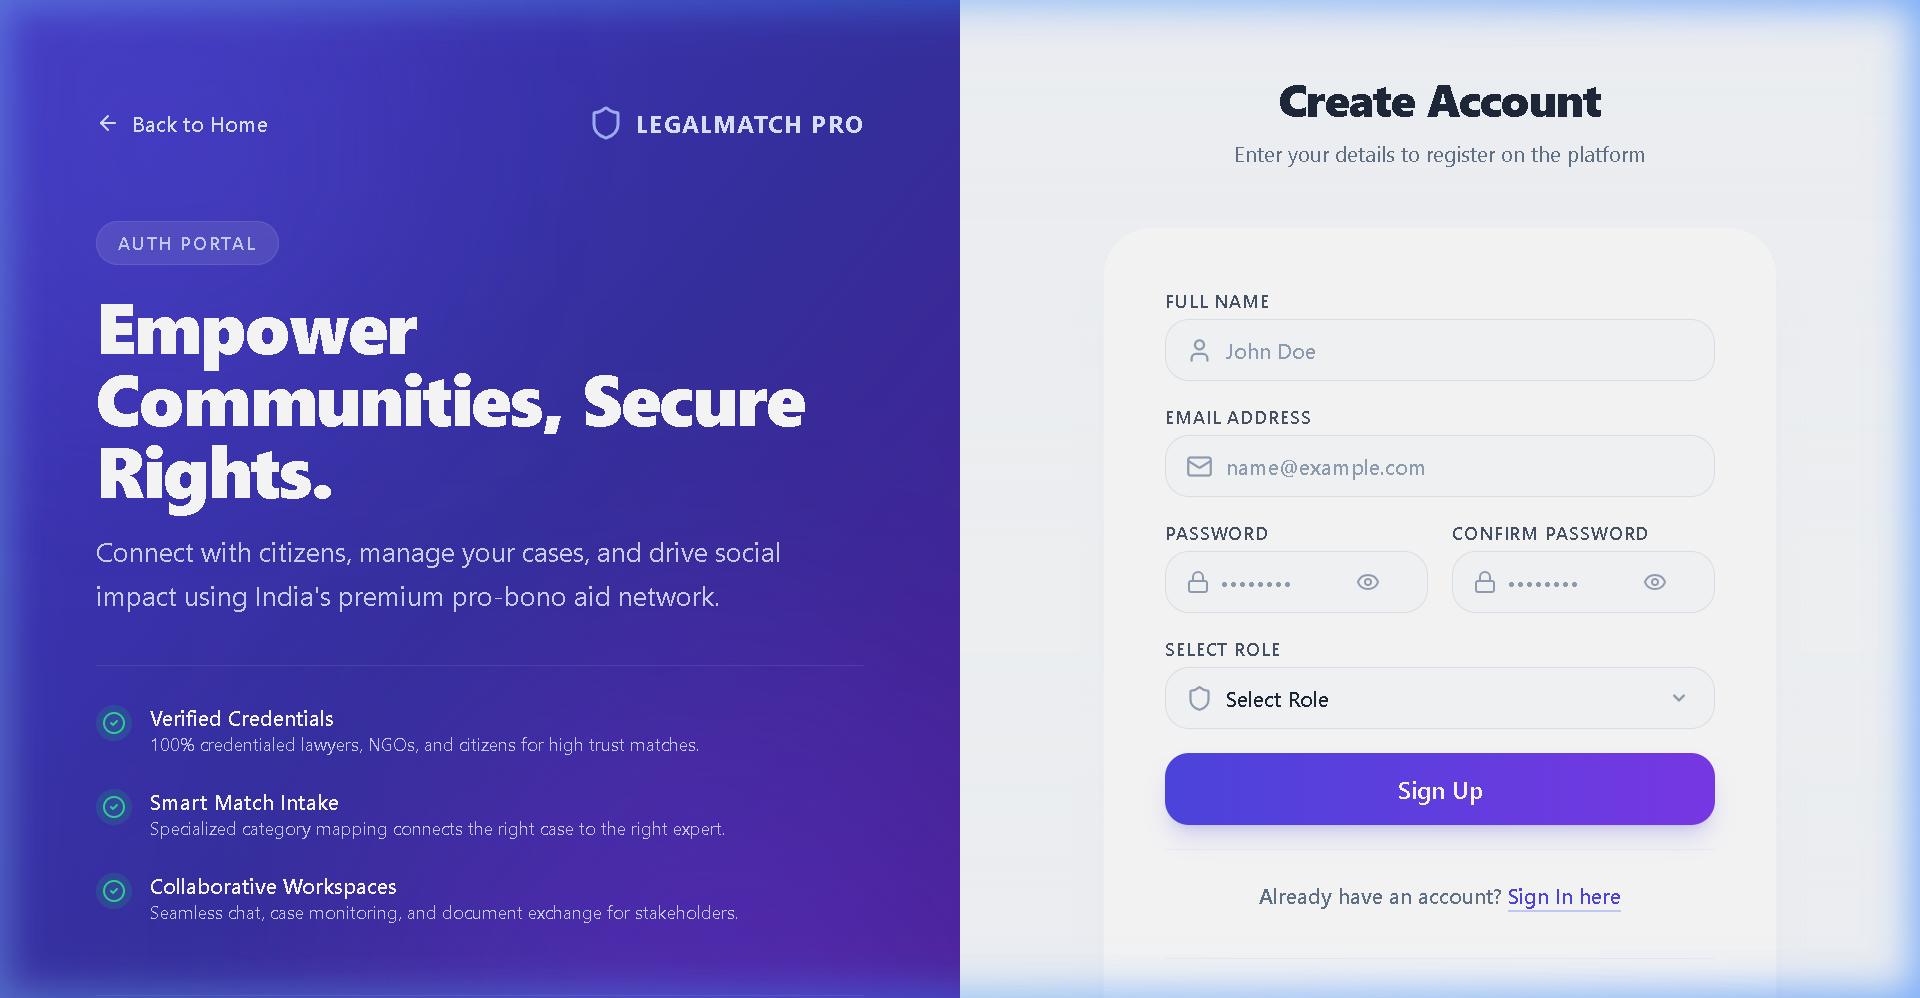
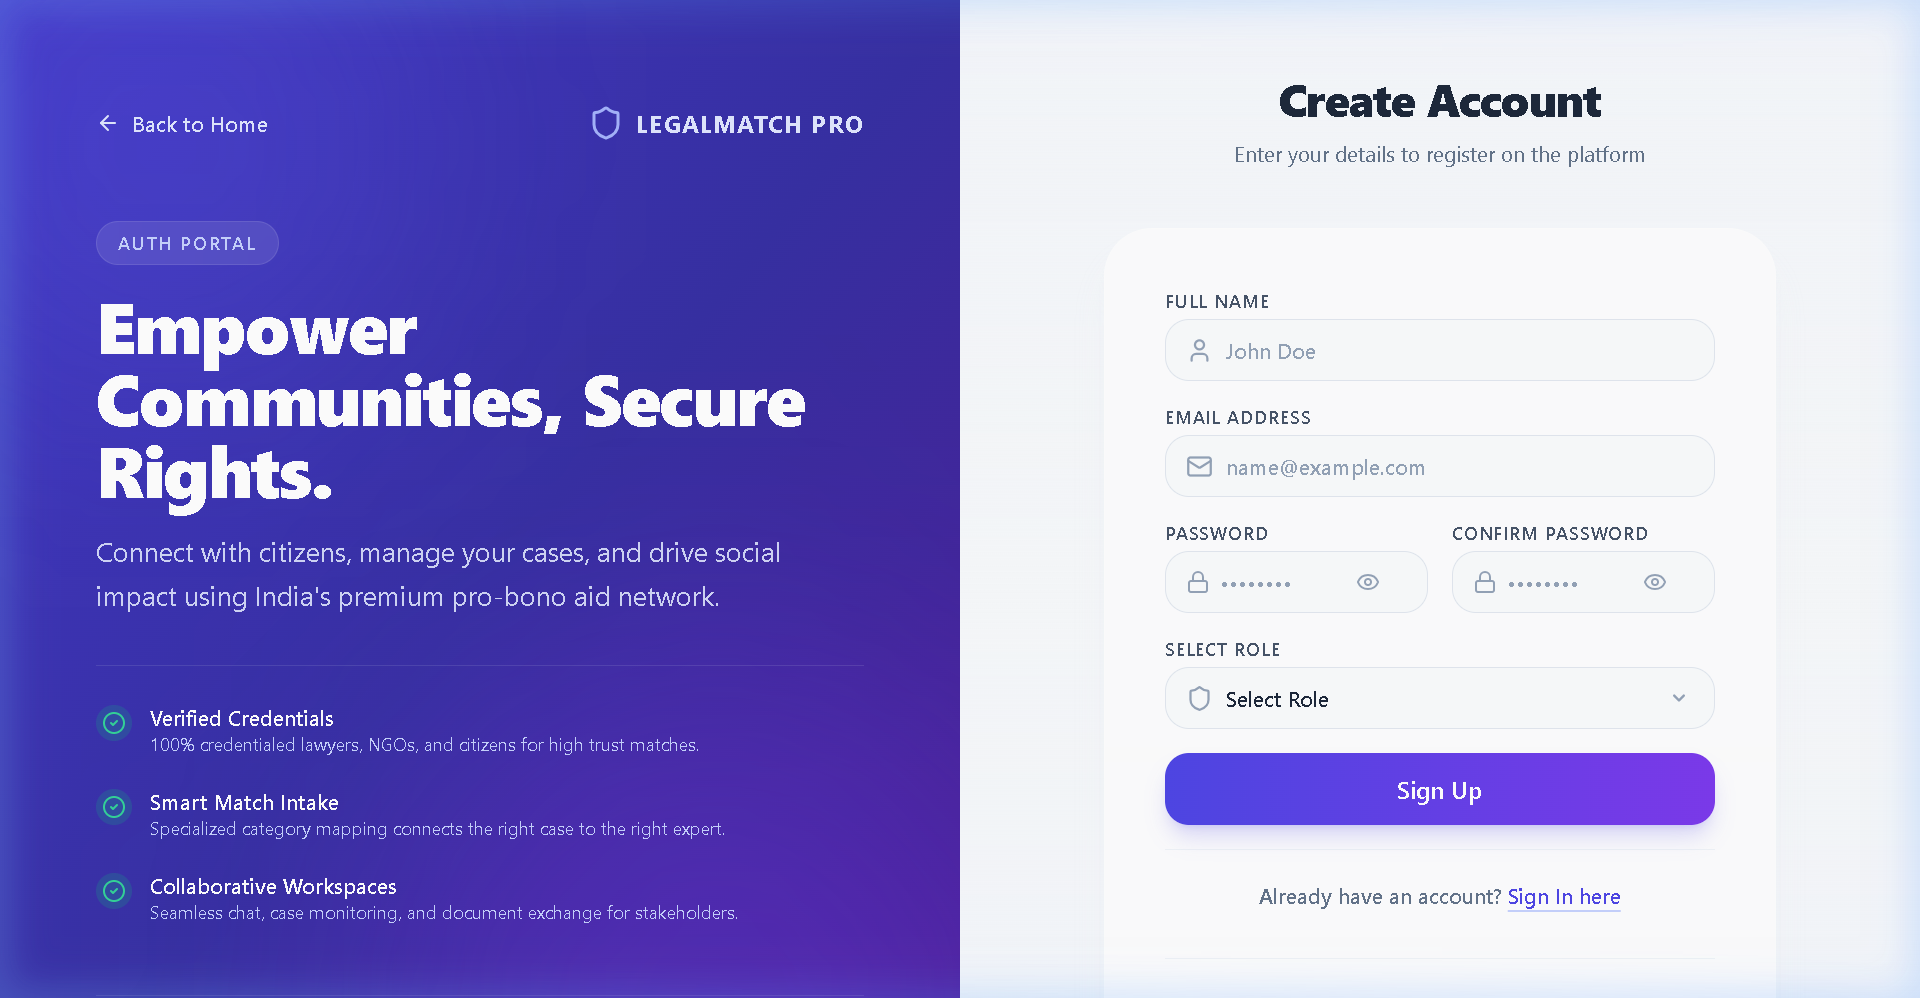
style: fix screenshots table columns and update local screenshot references

Changed region(s): [[0.5, 0.0, 1.0, 1.0]]

diff --git a/README.md b/README.md
@@ -27,8 +27,8 @@
 
 ### Landing Page & Authentication
 | Landing Page | Login (Redesigned) | Register (Redesigned) |
-| :---: | :---: |
-| ![Landing Page Placeholder](https://placehold.co/600x400?text=Landing+Page+Dashboard) | ![Login Portal](screenshots/login_redesign.png) |
+| :---: | :---: | :---: |
+| ![Landing Page](screenshots/landing_page.png) | ![Login Portal](screenshots/login_redesign.png) | ![Register Portal](screenshots/signup_redesign.png) |
 
 ### Role Dashboards
 | Citizen Dashboard | Lawyer Dashboard |